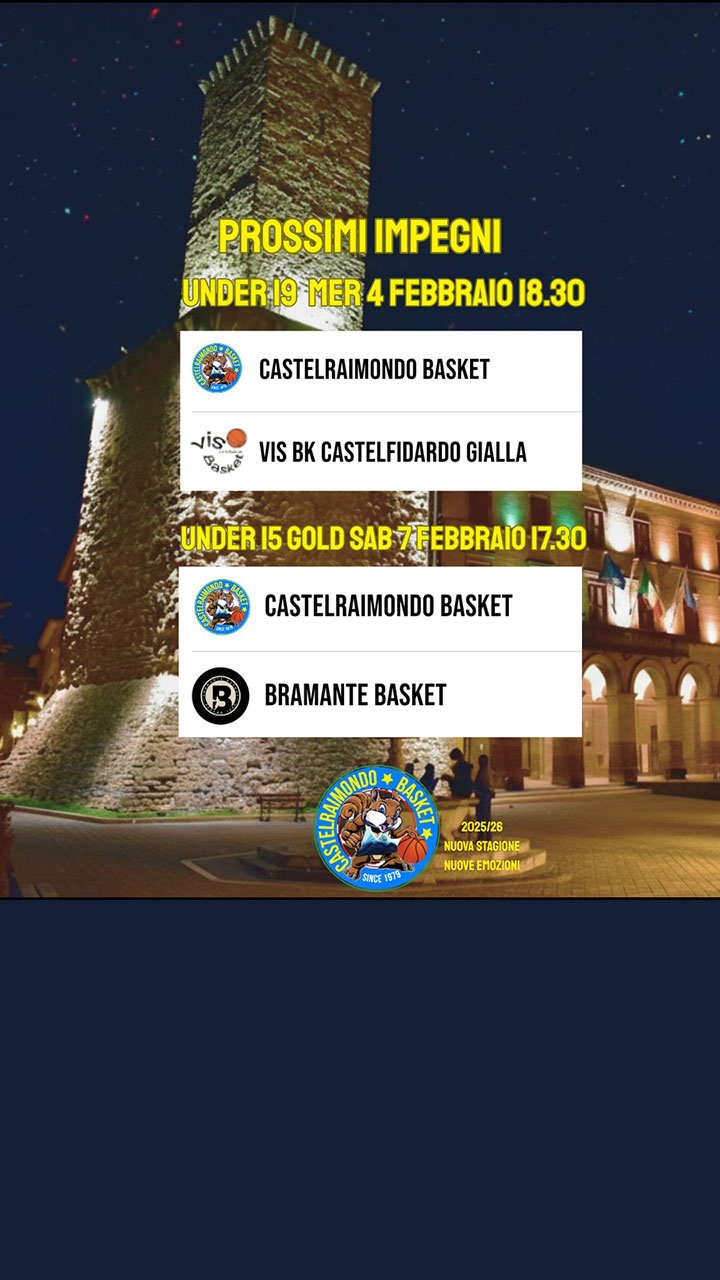
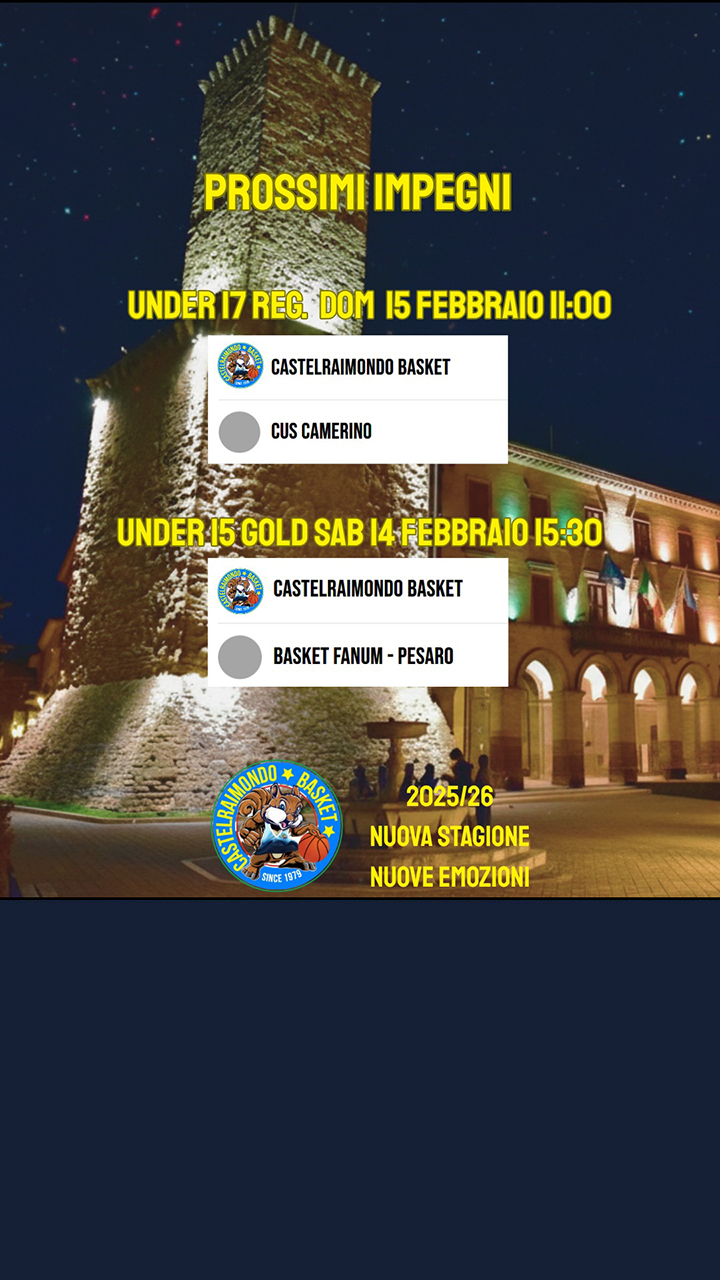
dajeee

Changed region(s): [[0.1528, 0.125, 0.8556, 0.7188]]

diff --git a/src/app/pages/prenota-lanterna/prenota-lanterna.page.ts b/src/app/pages/prenota-lanterna/prenota-lanterna.page.ts
@@ -27,7 +27,8 @@ export class PrenotaLanternaPage implements OnInit {
   private router = inject(Router);
 
   // URL del sito Prenota La Lanterna
-  private readonly RAW_URL = 'https://prenota.pizzerialalanterna.it/asporto';
+  // private readonly RAW_URL = 'https://prenota.pizzerialalanterna.it/asporto';
+  private readonly RAW_URL = 'https://pizzerialalanterna.it';
 
   isBrowser = true;          // true = PWA/desktop browser, false = app ibrida
   safeUrl!: SafeResourceUrl; // URL sanitizzato per l'iframe

diff --git a/src/app/security/kiosk-whitelist.service.ts b/src/app/security/kiosk-whitelist.service.ts
@@ -22,6 +22,7 @@ export class KioskWhitelistService {
     'cronachemaceratesi.it',
     'pizzerialalanterna.it',
     'prenota.pizzerialalanterna.it',
+    'pizzerialalanterna.it',
     'picchionews.it',
     'comune.castelraimondo.mc.it',
     'cosmariambiente.it',

diff --git a/src/app/pages/prenota-lanterna/prenota-lanterna.page.html b/src/app/pages/prenota-lanterna/prenota-lanterna.page.html
@@ -1,7 +1,5 @@
 <ion-header>
   <ion-toolbar>
-    <ion-title>Prenota La Lanterna</ion-title>
-
     <ion-buttons slot="end">
       <ion-button color="danger" (click)="goBack()">
         <ion-icon slot="start" name="arrow-back-outline"></ion-icon>
